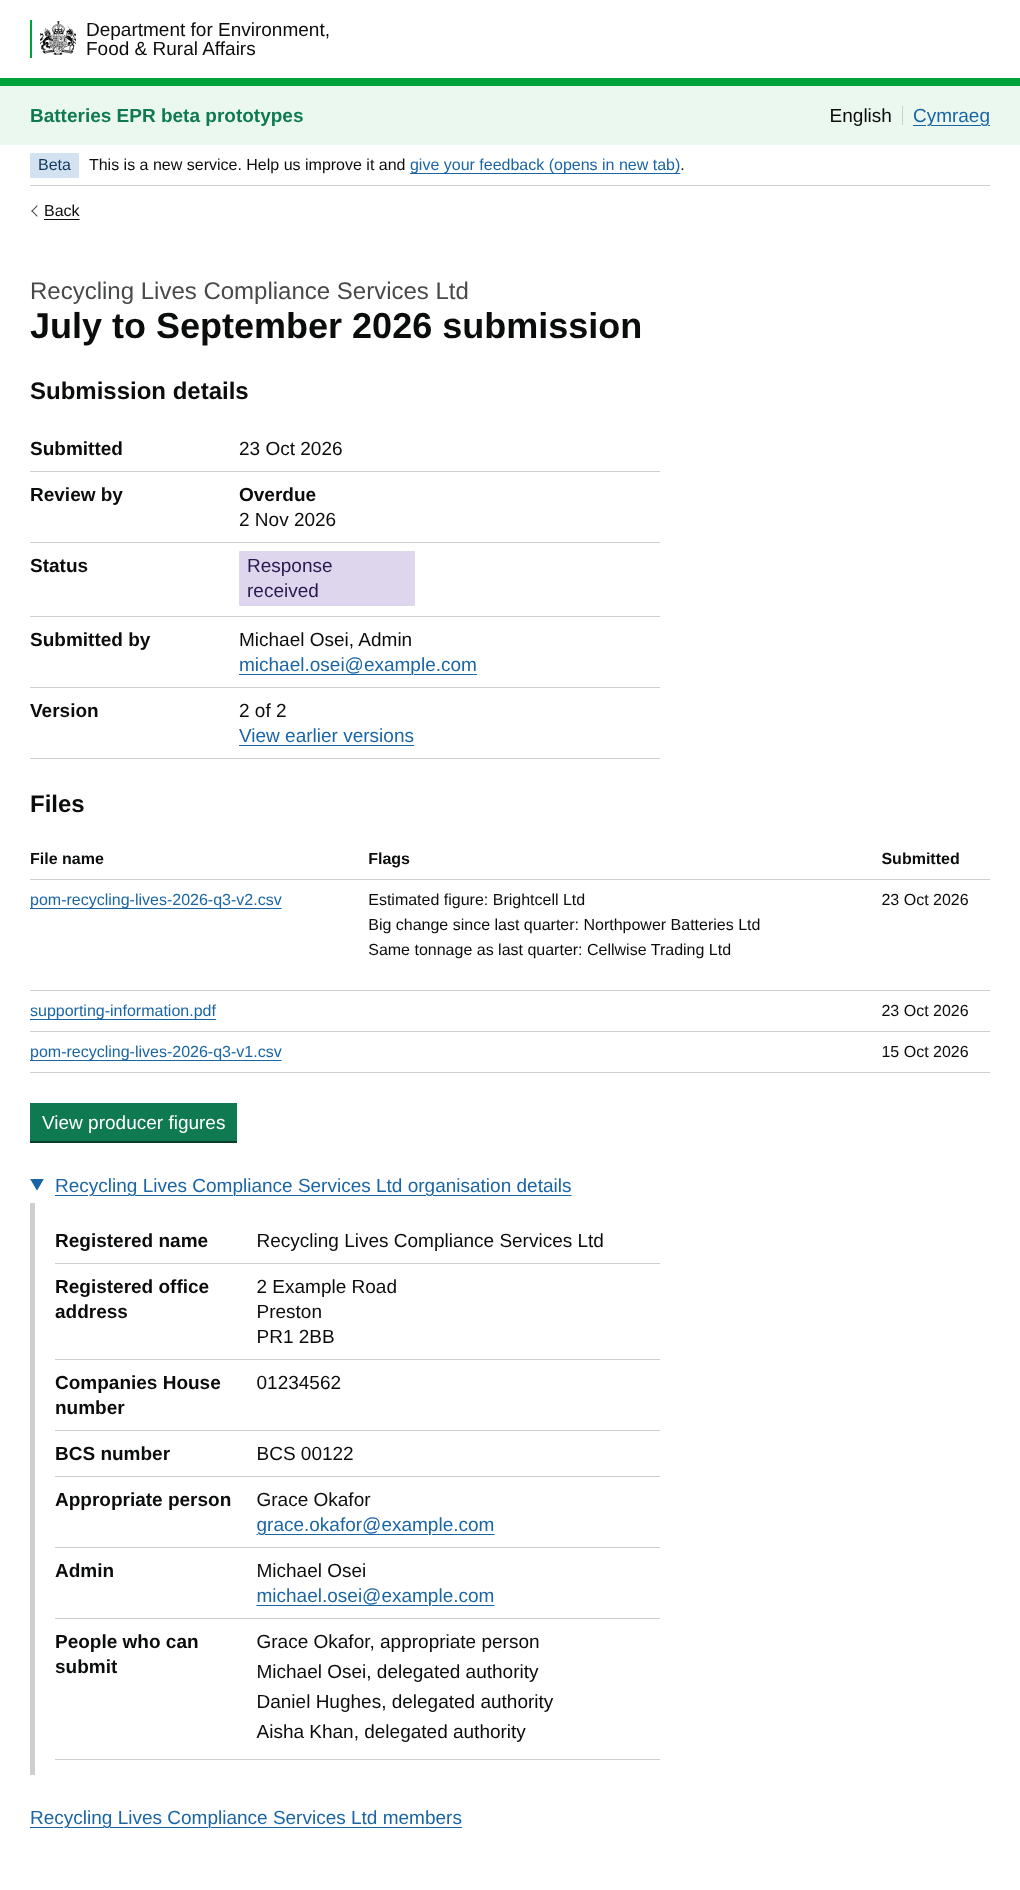
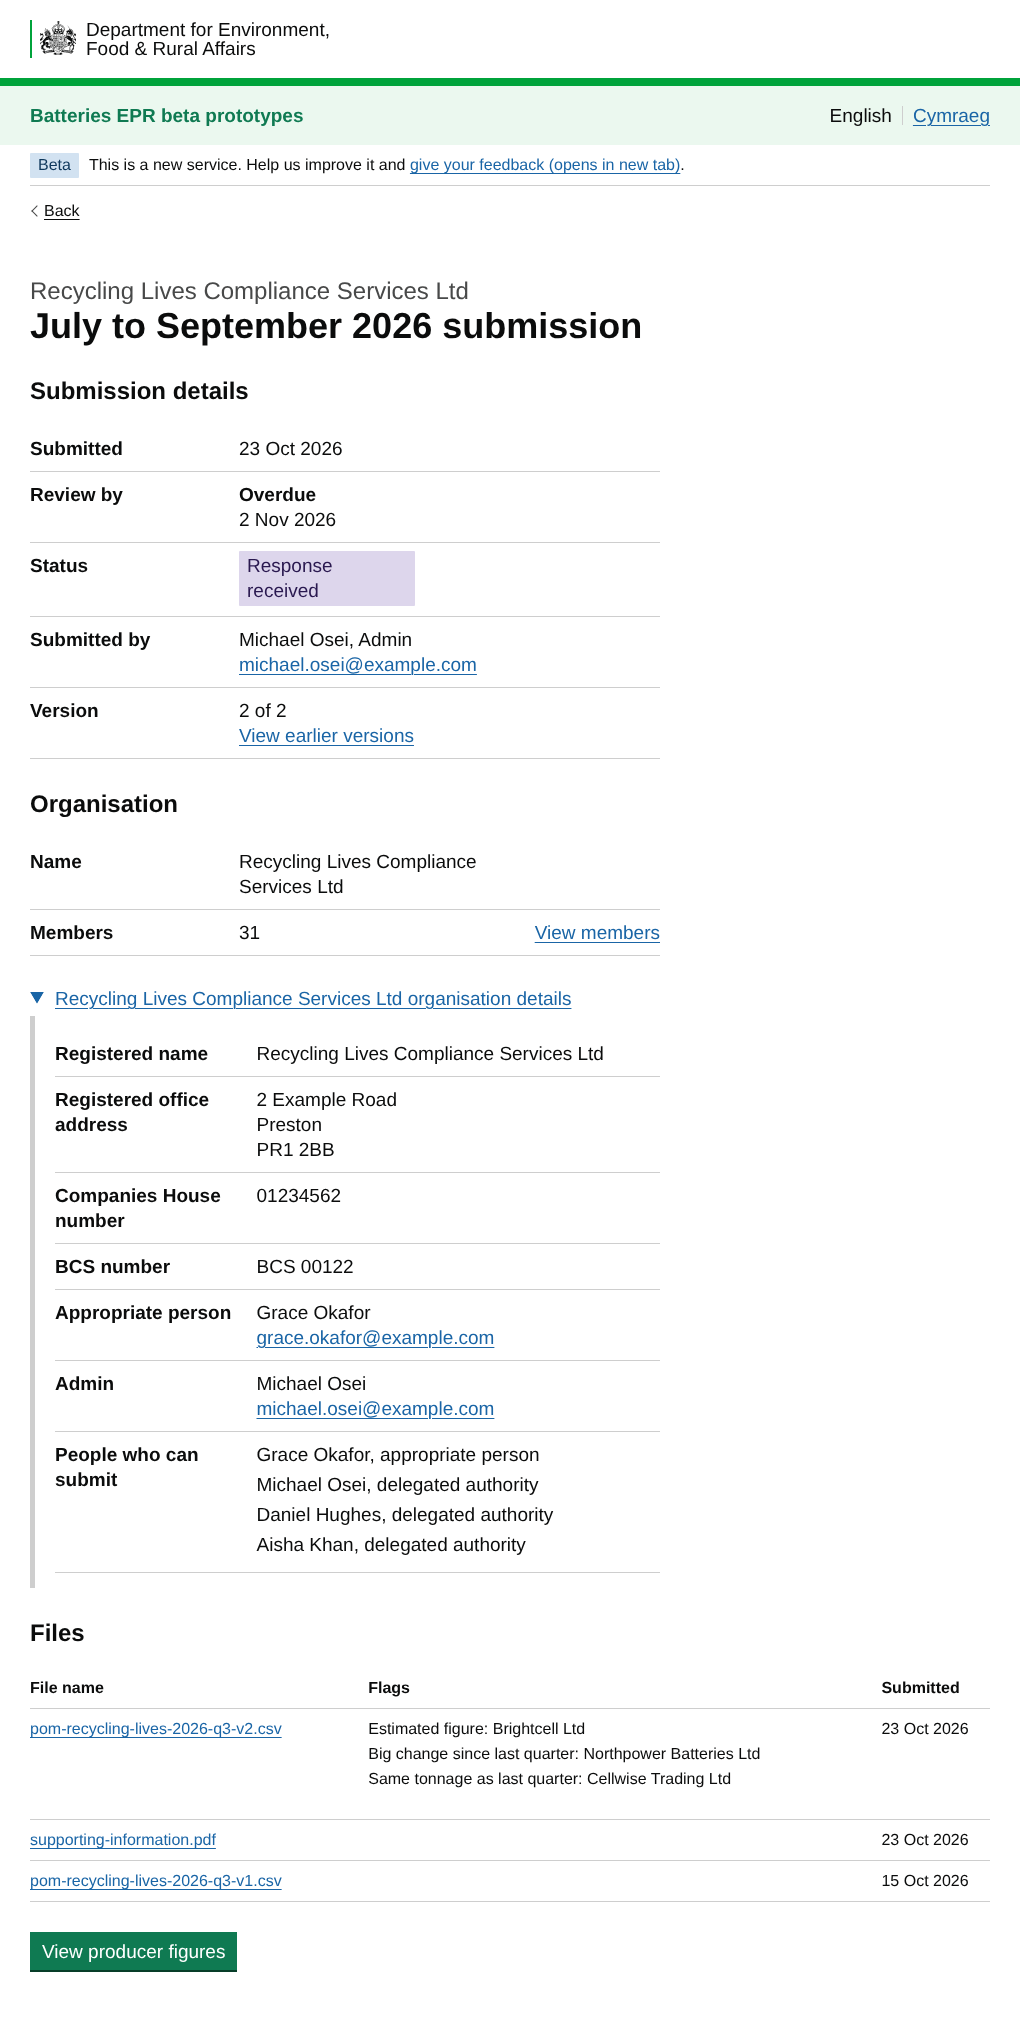
EB-325 brief: Organisation list after the submission details, with the organisation details opening in place under it
Claude-Session: https://claude.ai/code/session_014pBrKbgm5Jfdzkw7drhM9g

diff --git a/app/views/changes/add-pom-submission-page.html b/app/views/changes/add-pom-submission-page.html
@@ -16,7 +16,7 @@
 <p class="govuk-body"><strong class="govuk-tag govuk-tag--green">New</strong></p>
 <p class="govuk-body">Regulators need to see one scheme's submission for a quarter, who submitted it and whether they could, and the scheme's details if they need them. There are two versions for the team to look at and say what we can build. We'd rather test one.</p>
 <p class="govuk-body"><strong>Brief version: 1 page (Marie and Jen)</strong></p>
-<ul class="govuk-list govuk-list--bullet"><li>Submission details: submitted, review by, status (the tag is in the list), who submitted it and their role (&quot;Tom Fielding, Admin&quot;), and the version (&quot;2 of 2&quot;, with a link to earlier versions)</li><li>One files table, full width, in 16px text and the MOJ scrollable pane: the file name (it opens the file: in the same tab for now, as &quot;(opens in new tab)&quot; made the names too long), the flags written out against the file they're in, and submitted (the same word as the list). Who submitted is in the details above, so it's not in the table</li><li>View producer figures straight after the files: it's the main thing to do next. The organisation details and members come after it, as they're needed less</li><li>The scheme's organisation details in a details component named after the scheme (for example &quot;Recycling Lives Compliance Services Ltd organisation details&quot;), view only. Emails are links. The people who can submit are in the list, everyone, however many</li><li>A link to the scheme's members below it (for example &quot;Recycling Lives Compliance Services Ltd members&quot;)</li><li>&quot;Admin&quot; for the top of the scheme's account</li><li>From &quot;View&quot; on the brief list. Scheme names on that list aren't links any more, so two links in a row don't go to the same place</li></ul>
+<ul class="govuk-list govuk-list--bullet"><li>Submission details: submitted, review by, status (the tag is in the list), who submitted it and their role (&quot;Tom Fielding, Admin&quot;), and the version (&quot;2 of 2&quot;, with a link to earlier versions)</li><li>One files table, full width, in 16px text and the MOJ scrollable pane: the file name (it opens the file: in the same tab for now, as &quot;(opens in new tab)&quot; made the names too long), the flags written out against the file they're in, and submitted (the same word as the list). Who submitted is in the details above, so it's not in the table</li><li>Organisation, after the submission details, as in the full version: a short list (the name, and members with View members), then the organisation details in a details component straight under it, opening in place. Not inside the list: a summary list inside a summary list is awkward for screen readers</li><li>The organisation details are view only, with emails as links and the people who can submit, everyone, however many</li><li>Then the files, then View producer figures, last</li><li>&quot;Admin&quot; for the top of the scheme's account</li><li>From &quot;View&quot; on the brief list. Scheme names on that list aren't links any more, so two links in a row don't go to the same place</li></ul>
 <p class="govuk-body"><strong>Full version: 2 pages (Rich)</strong></p>
 <ul class="govuk-list govuk-list--bullet"><li>Page 1, the submission: details with the status in the list and Rich's extras (days left, BCS number, tonnage and producers in the file). Then a short Organisation list (the name, with View details, and members, with View members), so the organisation is near the top but after the submission. Then the same files table as the brief version, plus the scheme's reason under each flag, then View producer figures. All full width, so the labels fit on one line, and the flags line up with the answers in the summary lists above</li><li>Page 2, organisation details: Change links, so we can ask the business whether regulators can change them. The people who can submit, with their emails (if someone's authority has ended, they're not on the list). Other users, who can't submit, are in a details component</li><li>&quot;Super user&quot; for the top of the scheme's account</li><li>From &quot;View submission&quot; (page 1) or a scheme name (page 2) on the full list</li></ul>
 <p class="govuk-body"><strong>Both versions</strong></p>

diff --git a/app/views/regulator/pom-submission/brief.html b/app/views/regulator/pom-submission/brief.html
@@ -9,16 +9,16 @@
   Top to bottom:
   - Back to the brief list, on this submission's quarter (from app/routes.js)
   - Submission details, with the status tag in the list
+  - Organisation (see below), then the files
   - Submitted by has the person's email as a link
   - One files table: the flags are written out against the file they're in
     (no reasons: the full version adds those), and the file name opens the
     file, in the same tab for now (they can download it from there)
-  - The scheme's organisation details in a details component named after the
-    scheme, view only, with emails as links and the people who can submit in
-    the list (everyone, however many)
-  - A link to the scheme's members, below it
-  - View producer figures: the main call to action, straight after the files.
-    The organisation details and members come after it: they're needed less
+  - Organisation: a short summary list (name, and members with View members),
+    then the organisation details in a details component straight under it,
+    view only, with emails as links and the people who can submit (everyone,
+    however many)
+  - View producer figures: the main call to action, last
   "Admin", not "Super user" (Jen's word)
 
   The data: app/data/pom-submission-details.js (dummy).
@@ -105,6 +105,20 @@
     <h2 class="govuk-heading-m">{{ words.submissionDetailsHeading }}</h2>
     {{ govukSummaryList({ rows: detailRows }) }}
 
+    {# The organisation: name and members (another page), then its details,
+       opening in place, straight under the list. Not inside it: a summary
+       list inside a summary list is awkward for screen readers #}
+    <h2 class="govuk-heading-m">{{ words.organisationHeading }}</h2>
+    {{ govukSummaryList({ rows: [
+      { key: { text: words.name }, value: { text: org.name } },
+      {
+        key: { text: words.members },
+        value: { text: org.members },
+        actions: { items: [{ href: notBuiltHref, text: words.viewMembersLink }] }
+      }
+    ] }) }}
+    {{ govukDetails({ summaryText: s.scheme + " " + words.schemeDetails, html: schemeHtml }) }}
+
   </div>
 </div>
 
@@ -135,10 +149,6 @@
   <div class="govuk-grid-column-two-thirds">
 
     {{ govukButton({ text: words.viewProducerFiguresButton, href: notBuiltHref }) }}
-
-    {{ govukDetails({ summaryText: s.scheme + " " + words.schemeDetails, html: schemeHtml }) }}
-
-    <p class="govuk-body"><a href="{{ notBuiltHref }}" class="govuk-link">{{ s.scheme }} {{ words.membersLink }}</a></p>
 
   </div>
 </div>

diff --git a/app/content/regulator/pom-submission-brief.md b/app/content/regulator/pom-submission-brief.md
@@ -82,8 +82,17 @@ Appropriate person
 ## People who can submit
 People who can submit
 
-## Members link (after the scheme name, for example "Valpak Ltd members")
-members
+## Organisation heading
+Organisation
+
+## Name (the scheme's name, in the Organisation list)
+Name
+
+## Members
+Members
+
+## View members link
+View members
 
 ## View producer figures button
 View producer figures
